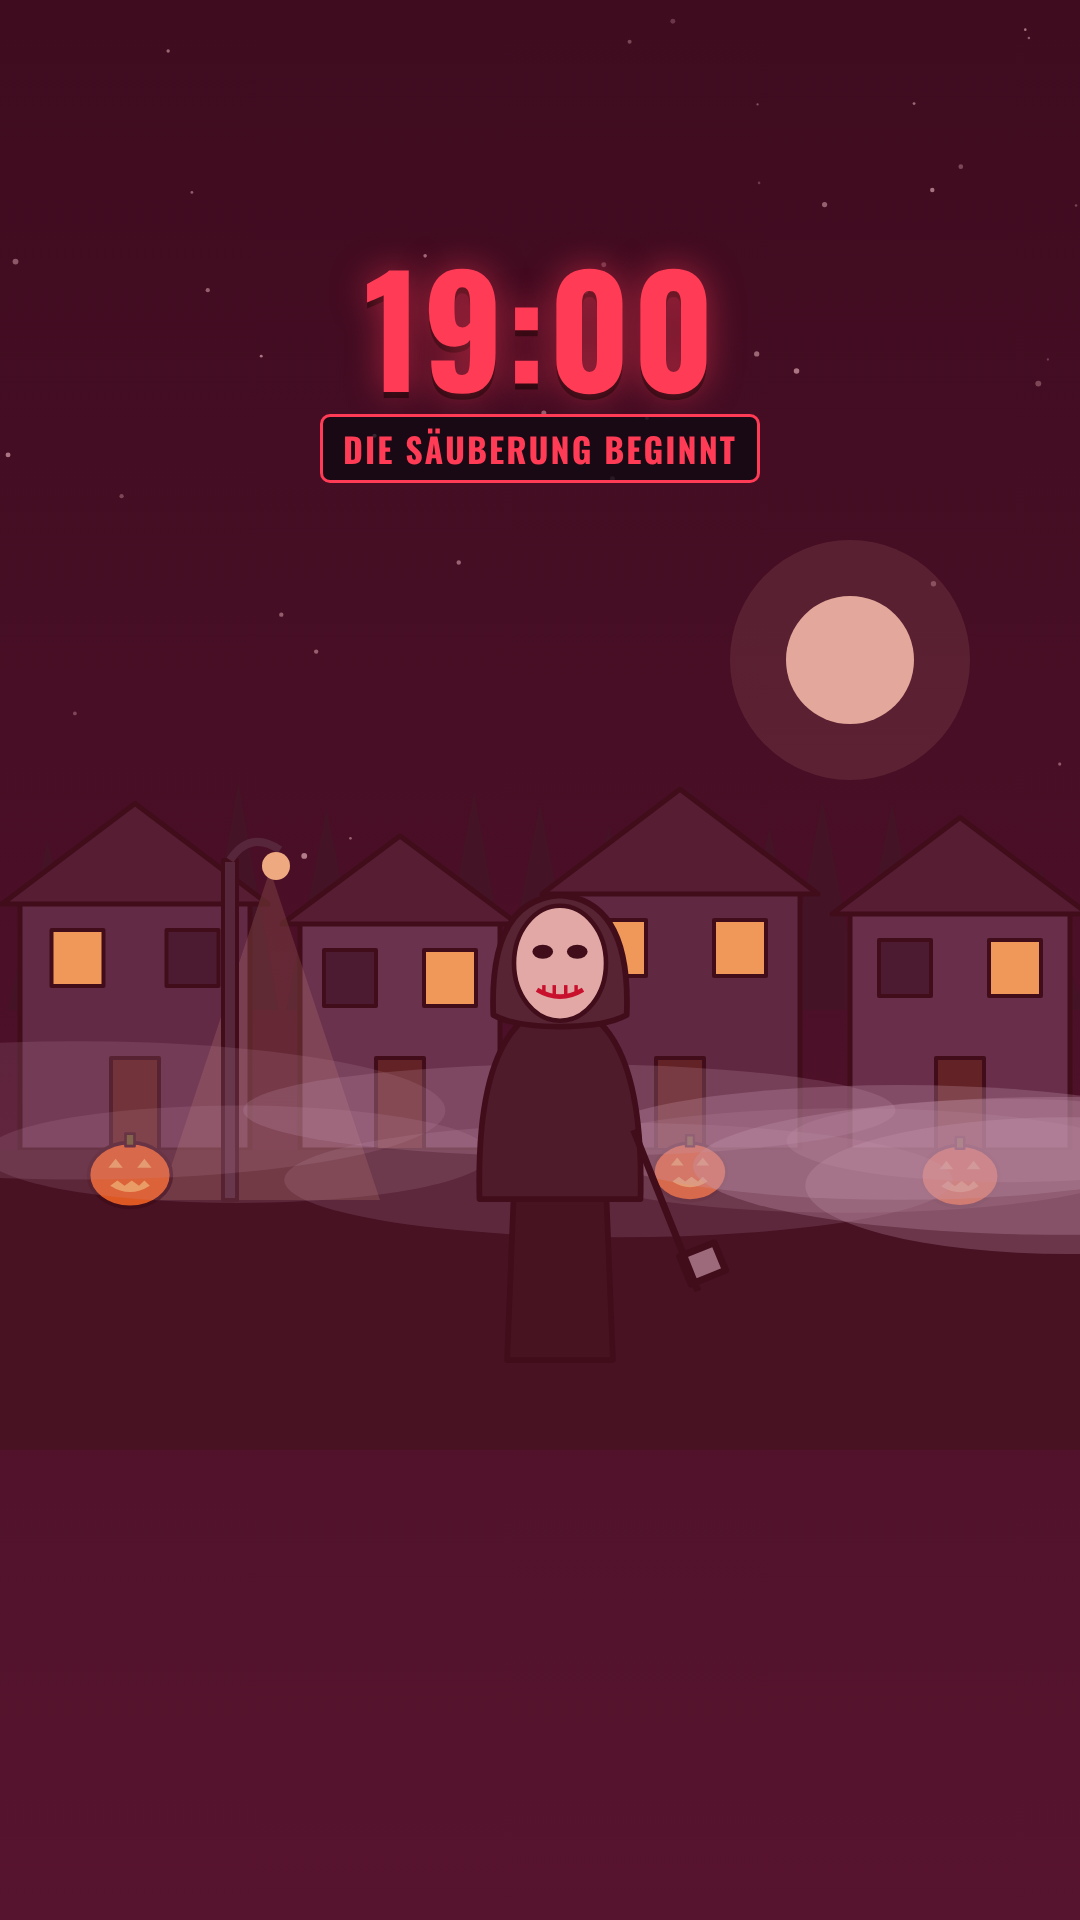
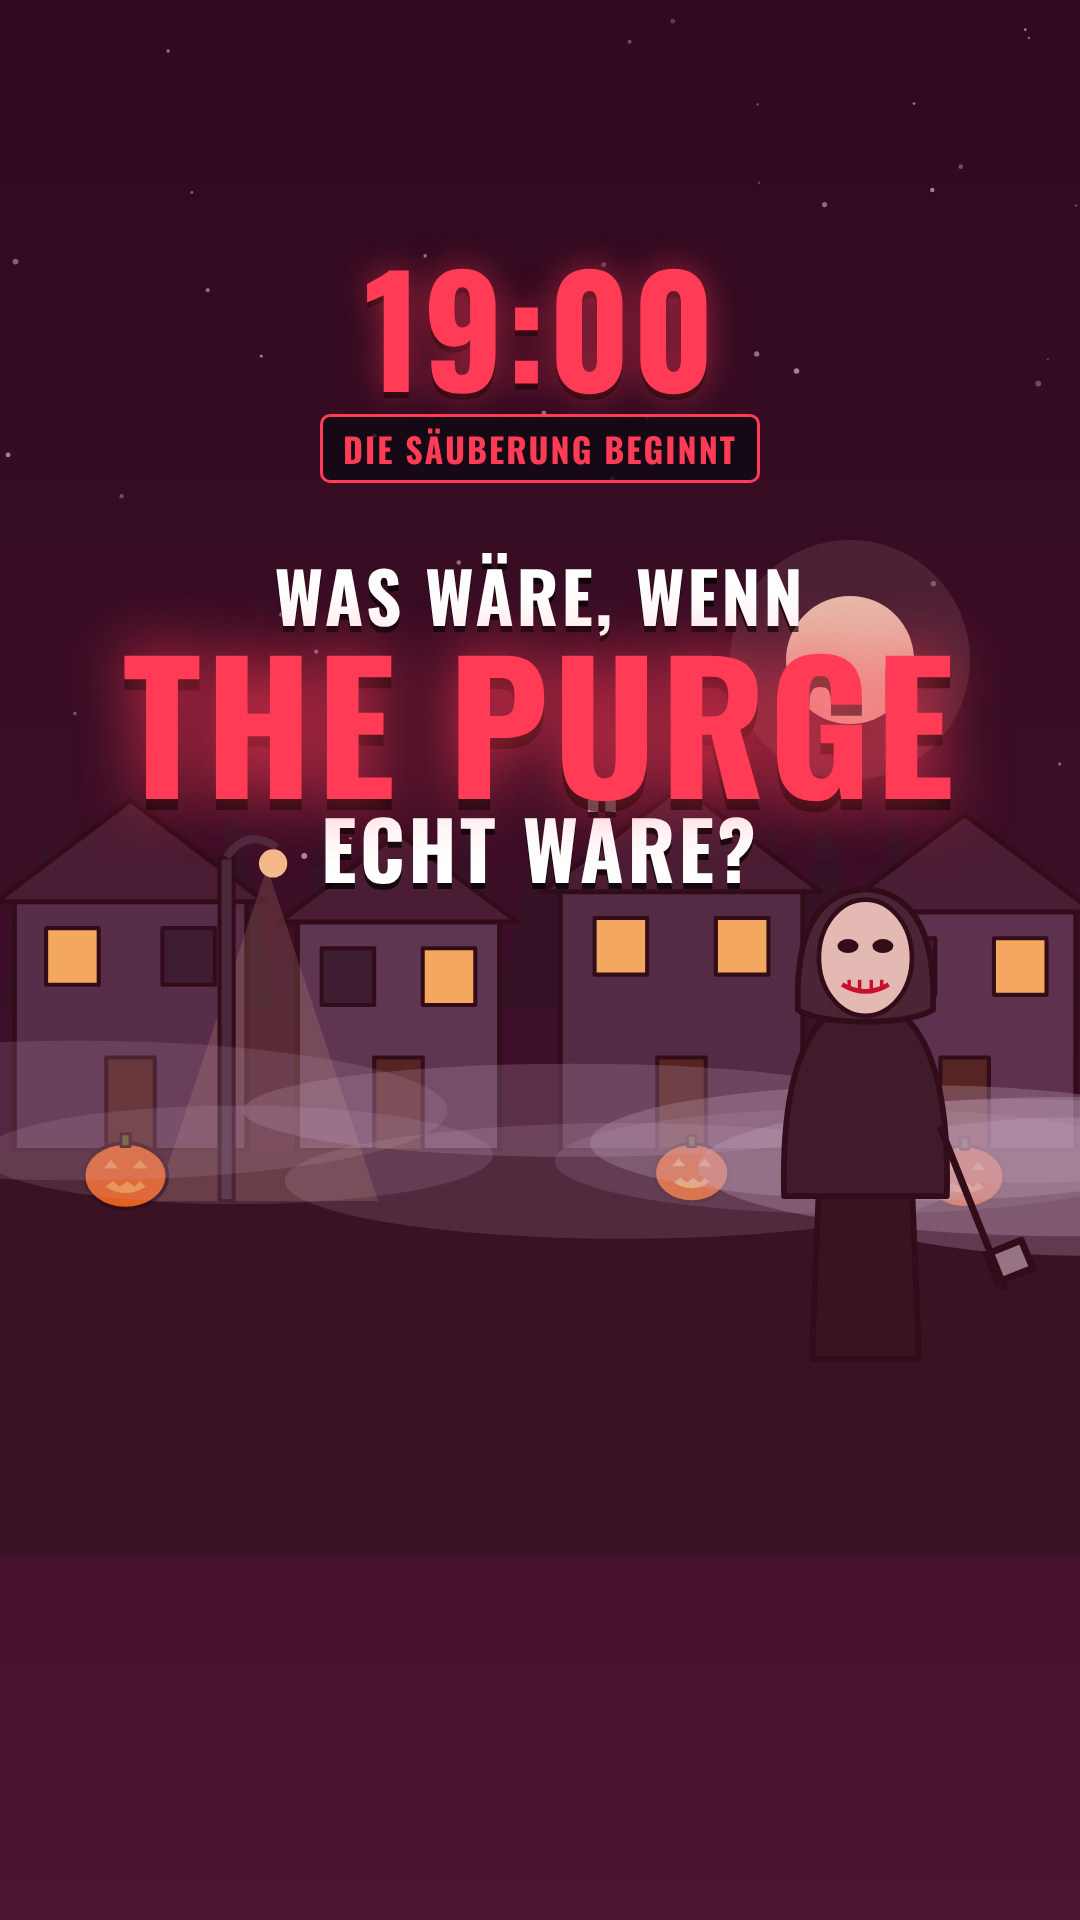
Purge: virales Cover (Titel aus dem Video + Teaser + Schlussfrage) und neue Beschreibung
Claude-Session: https://claude.ai/code/session_01McNdgXtFA3X1Q1fLpDn8nE

diff --git a/videos/purge-real/cover/index.html b/videos/purge-real/cover/index.html
@@ -8,22 +8,21 @@
       html, body { width: 1080px; height: 1920px; overflow: hidden; background: #07091a; }
       #root { position: relative; width: 100%; height: 100%; overflow: hidden; background: url("bg.png") center / cover; }
       .abs { position: absolute; }
-      #shade { left: 0; top: 1050px; width: 1080px; height: 870px; background: linear-gradient(rgba(7,9,26,0), rgba(7,9,26,.85) 30%, #07091a); }
-      #red { left: 0; top: 0; width: 1080px; height: 1920px; background: radial-gradient(ellipse 70% 40% at 50% 55%, rgba(200,16,46,.28), rgba(200,16,46,0)); }
-      #t1 { left: 0; width: 1080px; top: 1190px; text-align: center; font: 700 200px/1 Oswald, sans-serif; color: #ff3b55; letter-spacing: .02em;
-        text-shadow: 0 0 60px rgba(255,59,85,.7), 0 10px 0 rgba(0,0,0,.7); }
-      #t2 { left: 0; width: 1080px; top: 1400px; text-align: center; font: 700 68px/1.1 Oswald, sans-serif; color: #fff; text-shadow: 0 6px 0 rgba(0,0,0,.7); }
-      #q { left: 90px; width: 900px; top: 1530px; height: 120px; border-radius: 18px; background: rgba(8,8,16,.85); border: 4px solid #ffd43b;
-        text-align: center; font: 700 46px/112px Oswald, sans-serif; color: #fff; letter-spacing: .01em; white-space: nowrap; }
+      #shade { left: 0; top: 1180px; width: 1080px; height: 740px; background: linear-gradient(rgba(7,9,26,0), rgba(7,9,26,.9) 25%, #07091a); }
+      .chip { left: 0; right: 0; margin: 0 auto; width: fit-content; padding: 8px 26px; border-radius: 12px; font: 700 50px/1.1 Oswald, sans-serif; letter-spacing: .03em; white-space: nowrap; }
+      #c1 { top: 1270px; background: #ff3b55; color: #fff; transform: rotate(-2deg); box-shadow: 0 0 40px rgba(255,59,85,.6); }
+      #c2 { top: 1370px; border: 4px solid #39e27a; color: #39e27a; background: rgba(8,8,16,.85); transform: rotate(1.5deg); }
+      #q { left: 70px; width: 940px; top: 1500px; height: 150px; border-radius: 22px; background: rgba(8,8,16,.9); border: 5px solid #ffd43b; box-shadow: 0 0 50px rgba(255,212,59,.35);
+        text-align: center; font: 700 60px/140px Oswald, sans-serif; color: #fff; white-space: nowrap; }
       #q span { color: #ffd43b; }
     </style>
   </head>
   <body>
     <div id="root" data-composition-id="cover" data-start="0" data-duration="1" data-width="1080" data-height="1920" data-no-timeline>
-      <div id="red" class="abs"></div><div id="shade" class="abs"></div>
-      <div id="t1" class="abs">THE PURGE</div>
-      <div id="t2" class="abs">WAS WÄRE, WENN ES ECHT WÄRE?</div>
-      <div id="q" class="abs"><span>12 STUNDEN</span> · ALLES LEGAL · KEIN NOTRUF</div>
+      <div id="shade" class="abs"></div>
+      <div id="c1" class="abs chip">RAUB · MORD · BRAND – ALLES LEGAL</div>
+      <div id="c2" class="abs chip">+ 4 SCHRITTE, WIE DU ÜBERLEBST</div>
+      <div id="q" class="abs"><span>TEILNEHMEN</span> ODER VERSCHANZEN?</div>
     </div>
   </body>
 </html>

diff --git a/videos/purge-real/BESCHREIBUNG.md b/videos/purge-real/BESCHREIBUNG.md
@@ -1,31 +1,33 @@
 # Beschreibung – Was wäre, wenn The Purge echt wäre?
 
 ## Hauptversion (empfohlen)
-Was wäre, wenn die Säuberung aus The Purge WIRKLICH stattfindet? 🩸 12 Stunden: Raub, Einbruch, Brandstiftung, Mord – alles legal, kein Notruf. Plus: 4 Schritte, wie du dich schützt 😨 Würdest du teilnehmen oder dich zuhause verschanzen? 👇
+Was wäre, wenn The Purge WIRKLICH stattfindet? 🩸 12 Stunden: Raub, Einbruch, Brandstiftung, Mord – alles legal, kein Notruf. Bleib bis zum Ende für die schockierendste Zahl 😨 Würdest du teilnehmen oder dich verschanzen? 👇
 #thepurge #halloween #waswärewenn #gruselig #fyp
 
-## Alternative 1 (Plünderung vorne)
-Juweliere, Banken – und Sammelkartenläden: In der Purge-Nacht wird alles geplündert, und die Versicherung zahlt nichts 😳 Teilnehmen oder verschanzen? 👇
-#thepurge #halloween #waswärewenn #pokemonkarten #fyp
-
-## Alternative 2 (Zahl vorne)
-In Deutschland gibt es alle 12 Stunden rund 20.000 Rettungseinsätze. In der Purge-Nacht: keinen einzigen 🚑❌ Teilnehmen oder verschanzen? 👇
-#thepurge #halloween #gedankenexperiment #gruselig #fyp
-
-## Alternative 3 (Schutz vorne)
-Licht aus, Raum ohne Fenster, Vorräte, Nachbarn: So würdest du eine echte Purge-Nacht überstehen 🔦 Teilnehmen oder verschanzen? 👇
+## Alternative 1 (Überleben vorne)
+So würdest du eine echte Purge-Nacht überleben 🔦 Licht aus, Raum ohne Fenster, Vorräte, Nachbarn … aber Schritt 1 machen fast alle falsch 😳 Teilnehmen oder verschanzen? 👇
 #thepurge #halloween #survival #waswärewenn #fyp
 
-## Angepinnter Kommentar
-19:00 – die Sirene heult 🚨 Was machst du: 🔒 zuhause verschanzen oder 🎭 teilnehmen? 👇
+## Alternative 2 (Zahl vorne)
+Alle 12 Stunden gibt es in Deutschland rund 20.000 Rettungseinsätze. In der Purge-Nacht: keinen einzigen 🚑❌ Und das ist noch nicht das Schlimmste … Teilnehmen oder verschanzen? 👇
+#thepurge #halloween #gedankenexperiment #gruselig #fyp
 
-## Antwort-Vorlage für Kommentare
-„Die Zahl am Ende: Schon 1 % von 84 Millionen Menschen wären 840.000 – mehr als die Einwohner von Frankfurt 😶“
+## Alternative 3 (Sammelkarten-Hook)
+Juweliere, Banken – und Sammelkartenläden 🃏 In der Purge-Nacht wird alles geplündert, und die Versicherung zahlt nichts. Teilnehmen oder verschanzen? 👇
+#thepurge #halloween #pokemonkarten #waswärewenn #fyp
+
+## Angepinnter Kommentar
+🚨 19:00 – die Sirene heult. Was machst du? 🔒 VERSCHANZEN oder 🎭 TEILNEHMEN? Antworte nur mit einem Wort 👇
+
+## Antwort-Vorlagen für Kommentare
+- „Die Zahl am Ende: Schon 1 % von 84 Millionen wären 840.000 Menschen – mehr als ganz Frankfurt 😶“
+- „Schritt 1 ist wirklich der wichtigste: Wer dunkel ist, fällt nicht auf 🔦“
 
 ## Posting-Tipps
-- Heute posten (Halloween, 31.10.) – am besten zwischen 18 und 20 Uhr, kurz vor „19:00“.
-- Cover: `renders/cover.jpg` als Titelbild.
-- Düsterer Trend-Sound leise darunter (10–20 %); die Sirene (Anfang + 07:00 Uhr) ist schon im Video.
+- Heute posten (Halloween, 31.10.), ideal 18:00–19:00 Uhr – kurz bevor im Video „19:00“ schlägt.
+- Cover: `renders/cover.jpg` als Titelbild wählen.
+- Düsterer Trend-Sound leise darunter (10–20 %); die Sirene ist schon im Video.
+- Den Ein-Wort-Kommentar sofort anpinnen und in der ersten Stunde auf möglichst viele Antworten reagieren.
 
 ---
-Zahlen: seltene Sammelkarten erzielen oft vier- bis fünfstellige Preise; Rettungsdienst DE ~14 Mio. Einsätze/Jahr → ~19.000–20.000 pro 12 Std.; 1 % von 84 Mio. = 840.000 (Frankfurt am Main ~775.000 Einw.).
+Zahlen: Rettungsdienst DE ~14 Mio. Einsätze/Jahr → ~19.000–20.000 pro 12 Std.; seltene Sammelkarten erzielen oft vier- bis fünfstellige Preise; 1 % von 84 Mio. = 840.000 (Frankfurt am Main ~775.000 Einw.).
